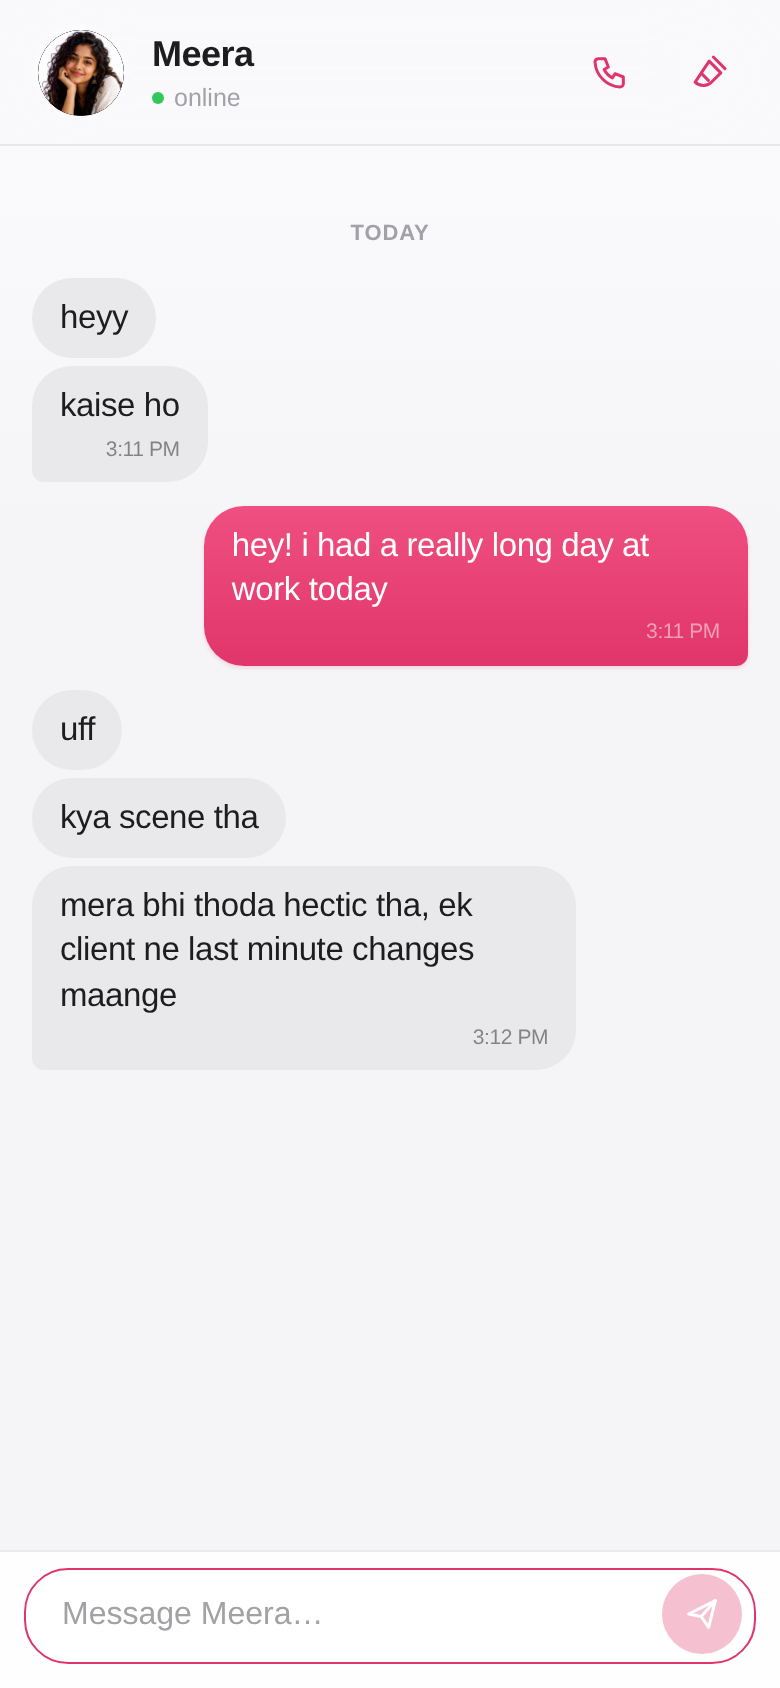
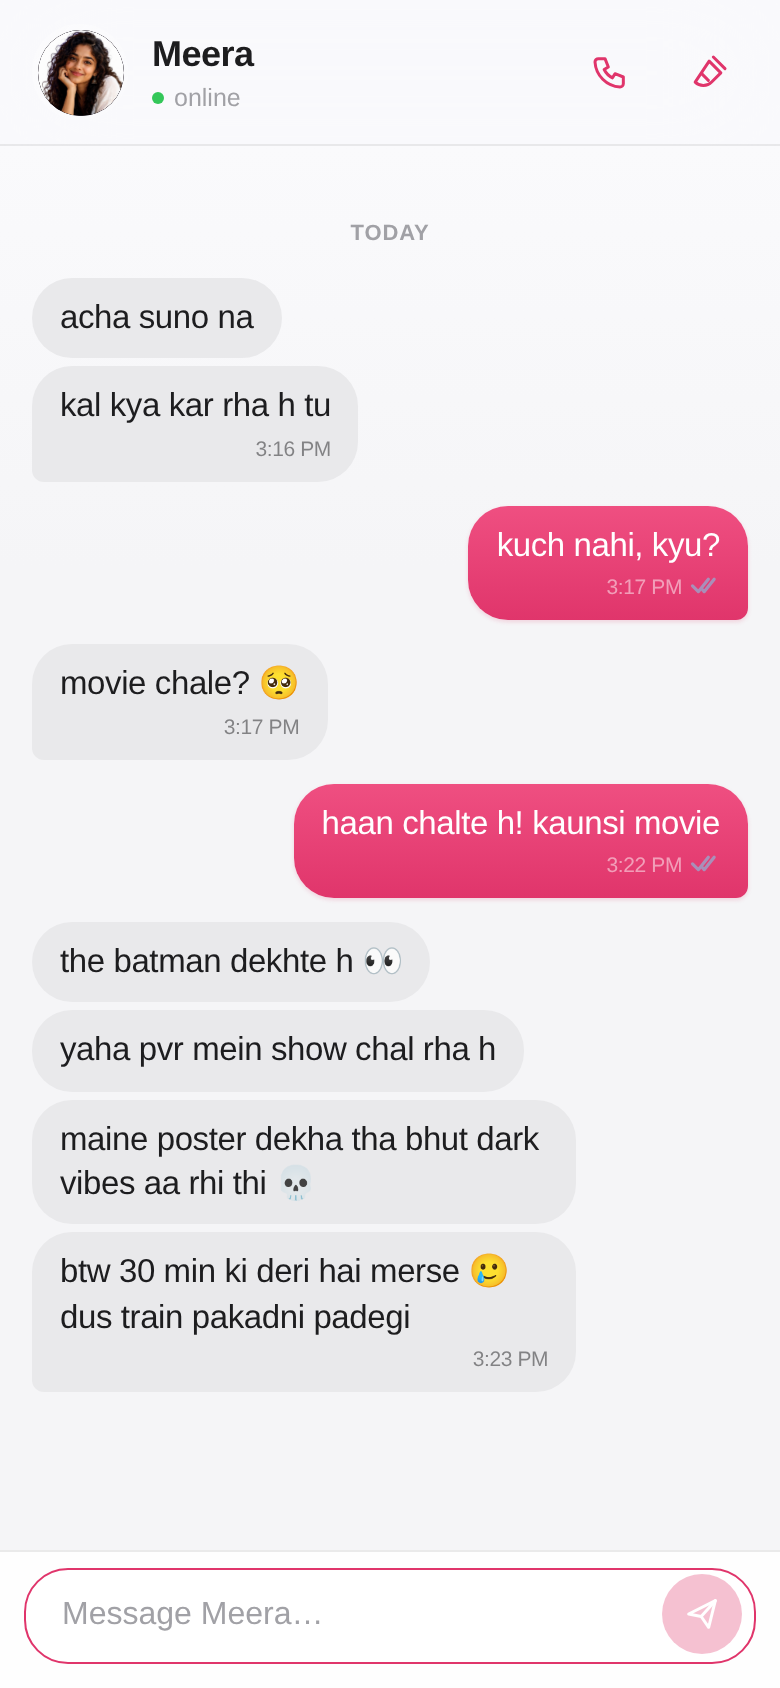
WhatsApp-grade realism: delivery ticks and live presence
- My messages carry status: single gray tick on send, double tick ~0.5-1.2s
  later (delivery), ticks turn blue at the exact moment she reads the
  message (the readDelay beat before her typing indicator).
- She is no longer eternally online: header cycles typing… / online (green
  dot) / last seen just now-recently-today at HH:MM. She pops online when
  she reads you, lingers 45-100s after her last activity, then drops off
  and lastSeen persists.
- Ticks render on every sent bubble (including big-emoji ones), timestamps
  still only on the last bubble of a group.

Claude-Session: https://claude.ai/code/session_01ADfx629Po8FtpzbQHrzYQb

diff --git a/src/components/Chat.tsx b/src/components/Chat.tsx
@@ -10,7 +10,7 @@ import type { HeartReply } from "../engine/localHeart";
 import PhotoAvatar from "./PhotoAvatar";
 import PhotoCard from "./PhotoCard";
 import BigEmoji, { isSingleEmoji } from "./BigEmoji";
-import { PhoneIcon, SendIcon, BroomIcon } from "./icons";
+import { PhoneIcon, SendIcon, BroomIcon, TickIcon } from "./icons";
 
 interface Props {
   state: AppState;
@@ -20,6 +20,16 @@ interface Props {
 
 const fmtTime = (t: number) =>
   new Date(t).toLocaleTimeString([], { hour: "numeric", minute: "2-digit" });
+
+function lastSeenLabel(t: number): string {
+  const mins = Math.floor((Date.now() - t) / 60000);
+  if (mins < 1) return "just now";
+  if (mins < 60) return "recently";
+  const d = new Date(t);
+  const today = new Date();
+  if (d.toDateString() === today.toDateString()) return "today at " + fmtTime(t);
+  return fmtTime(t);
+}
 
 function dayLabel(t: number): string {
   const d = new Date(t);
@@ -45,6 +55,10 @@ export default function Chat({ state, setState, onVoiceCall }: Props) {
   const [draft, setDraft] = useState("");
   const [typing, setTyping] = useState(false);
   const [clearArm, setClearArm] = useState(false);
+  // presence: she is not permanently glued to the phone — she comes online to
+  // read/reply, lingers a bit, then drops to "last seen"
+  const [herOnline, setHerOnline] = useState(false);
+  const offlineTimer = useRef<ReturnType<typeof setTimeout> | null>(null);
   const scrollRef = useRef<HTMLDivElement>(null);
   const inputRef = useRef<HTMLTextAreaElement>(null);
   const busy = useRef(false);
@@ -61,6 +75,30 @@ export default function Chat({ state, setState, onVoiceCall }: Props) {
 
   const pushMsg = (m: Message) =>
     setState((s) => ({ ...s, messages: [...s.messages, m] }));
+
+  // tick progression on my messages: sent → delivered → read
+  const upgradeMyStatus = (to: "delivered" | "read") =>
+    setState((s) => ({
+      ...s,
+      messages: s.messages.map((m) =>
+        m.from === "me" &&
+        m.status &&
+        m.status !== "read" &&
+        (to === "read" || m.status === "sent")
+          ? { ...m, status: to }
+          : m,
+      ),
+    }));
+
+  const cameOnline = () => {
+    setHerOnline(true);
+    if (offlineTimer.current) clearTimeout(offlineTimer.current);
+    // she wanders off her phone 45–100s after her last activity
+    offlineTimer.current = setTimeout(() => {
+      setHerOnline(false);
+      setState((s) => ({ ...s, lastSeen: Date.now() }));
+    }, 45_000 + Math.random() * 55_000);
+  };
 
   const mergeLearned = (learned?: Record<string, string>) => {
     if (!learned || !Object.keys(learned).length) return;
@@ -111,6 +149,9 @@ export default function Chat({ state, setState, onVoiceCall }: Props) {
   async function deliver(reply: HeartReply, incoming = "") {
     busy.current = true;
     await sleep(readDelay(incoming));
+    // this is the moment she actually reads you: she pops online, blue ticks
+    cameOnline();
+    upgradeMyStatus("read");
     for (const bubble of reply.bubbles) {
       setTyping(true);
       await sleep(typeDelay(bubble));
@@ -140,8 +181,17 @@ export default function Chat({ state, setState, onVoiceCall }: Props) {
     setDraft("");
     lastActivity.current = Date.now();
     nudged.current = false;
-    const mine: Message = { id: uid(), from: "me", kind: "text", text, at: Date.now() };
+    const mine: Message = {
+      id: uid(),
+      from: "me",
+      kind: "text",
+      text,
+      at: Date.now(),
+      status: "sent",
+    };
     pushMsg(mine);
+    // single tick → double tick shortly after (server delivery rhythm)
+    setTimeout(() => upgradeMyStatus("delivered"), 500 + Math.random() * 700);
     const reply = await think(user, brainKeys(), [...messages, mine], text);
     mergeLearned(reply.learned);
     await deliver(reply, text);
@@ -176,14 +226,24 @@ export default function Chat({ state, setState, onVoiceCall }: Props) {
       rows.push(
         <div key={m.id} className={`msg ${m.from} emoji-big`}>
           <BigEmoji emoji={m.text} />
-          {lastOfGroup && <span className="t">{fmtTime(m.at)}</span>}
+          {(lastOfGroup || m.from === "me") && (
+            <span className="t">
+              {lastOfGroup && fmtTime(m.at)}
+              {m.from === "me" && <TickIcon status={m.status ?? "read"} />}
+            </span>
+          )}
         </div>,
       );
     } else {
       rows.push(
         <div key={m.id} className={`msg ${m.from}`}>
           {m.text}
-          {lastOfGroup && <span className="t">{fmtTime(m.at)}</span>}
+          {(lastOfGroup || m.from === "me") && (
+            <span className="t">
+              {lastOfGroup && fmtTime(m.at)}
+              {m.from === "me" && <TickIcon status={m.status ?? "read"} />}
+            </span>
+          )}
         </div>,
       );
     }
@@ -204,10 +264,12 @@ export default function Chat({ state, setState, onVoiceCall }: Props) {
           <div className="name">{HER_NAME}</div>
           {typing ? (
             <div className="status typing">typing…</div>
-          ) : (
+          ) : herOnline ? (
             <div className="status">
               <span className="dot" /> online
             </div>
+          ) : (
+            <div className="status">last seen {lastSeenLabel(state.lastSeen)}</div>
           )}
         </div>
         <button className="icon-btn" onClick={onVoiceCall} aria-label="Voice call">

diff --git a/src/components/icons.tsx b/src/components/icons.tsx
@@ -49,6 +49,25 @@ export const SettingsIcon = ({ size = 20 }: { size?: number }) => (
   </svg>
 );
 
+// WhatsApp-style delivery ticks: ✓ sent, ✓✓ delivered, blue ✓✓ read
+export const TickIcon = ({ status }: { status: "sent" | "delivered" | "read" }) => (
+  <svg
+    width={15}
+    height={11}
+    viewBox="0 0 18 12"
+    fill="none"
+    stroke="currentColor"
+    strokeWidth={1.9}
+    strokeLinecap="round"
+    strokeLinejoin="round"
+    className={`tickicon ${status === "read" ? "read" : ""}`}
+    style={{ verticalAlign: "-1px" }}
+  >
+    <path d="M1.5 6.5 5 10 11 2.5" />
+    {status !== "sent" && <path d="M7.5 8.8 8.5 10 14.5 2.5" />}
+  </svg>
+);
+
 export const BroomIcon = ({ size = 20 }: { size?: number }) => (
   <svg width={size} height={size} viewBox="0 0 24 24" {...S}>
     <path d="M14 3l7 7" />

diff --git a/src/styles/global.css b/src/styles/global.css
@@ -425,6 +425,21 @@ button {
   text-align: right;
 }
 
+/* delivery ticks: white-ish on my rose bubbles, blue when read */
+.msg .t .tickicon {
+  margin-left: 4px;
+  color: rgba(255, 255, 255, 0.8);
+}
+.msg .t .tickicon.read {
+  color: #6fe0ff;
+}
+.msg.emoji-big .t .tickicon {
+  color: var(--ink-faint);
+}
+.msg.emoji-big .t .tickicon.read {
+  color: #35b8e8;
+}
+
 /* single-emoji messages render as big animated reactions — no bubble */
 .msg.emoji-big,
 .msg.emoji-big:has(+ .msg) {

diff --git a/src/state/store.ts b/src/state/store.ts
@@ -10,6 +10,9 @@ export interface Message {
   text: string; // for photos this is the caption
   photoSeed?: string; // deterministic seed for the generated photo card
   at: number;
+  // my messages only: ✓ sent → ✓✓ delivered → blue ✓✓ read (when she reads).
+  // absent on old messages = read.
+  status?: "sent" | "delivered" | "read";
 }
 
 export interface AppState {
